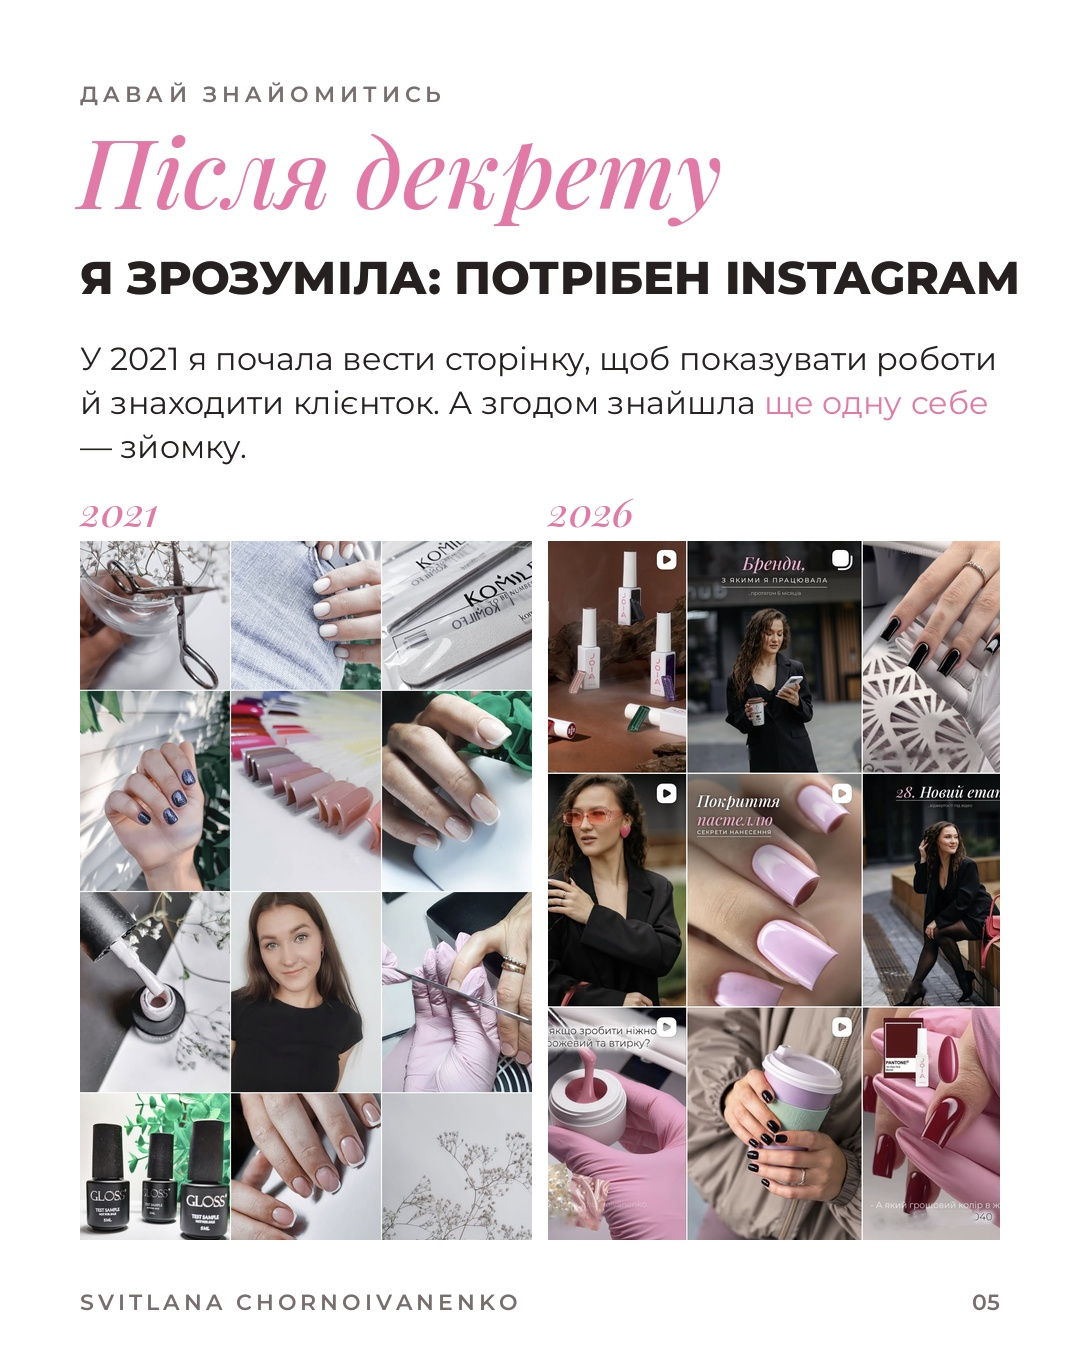
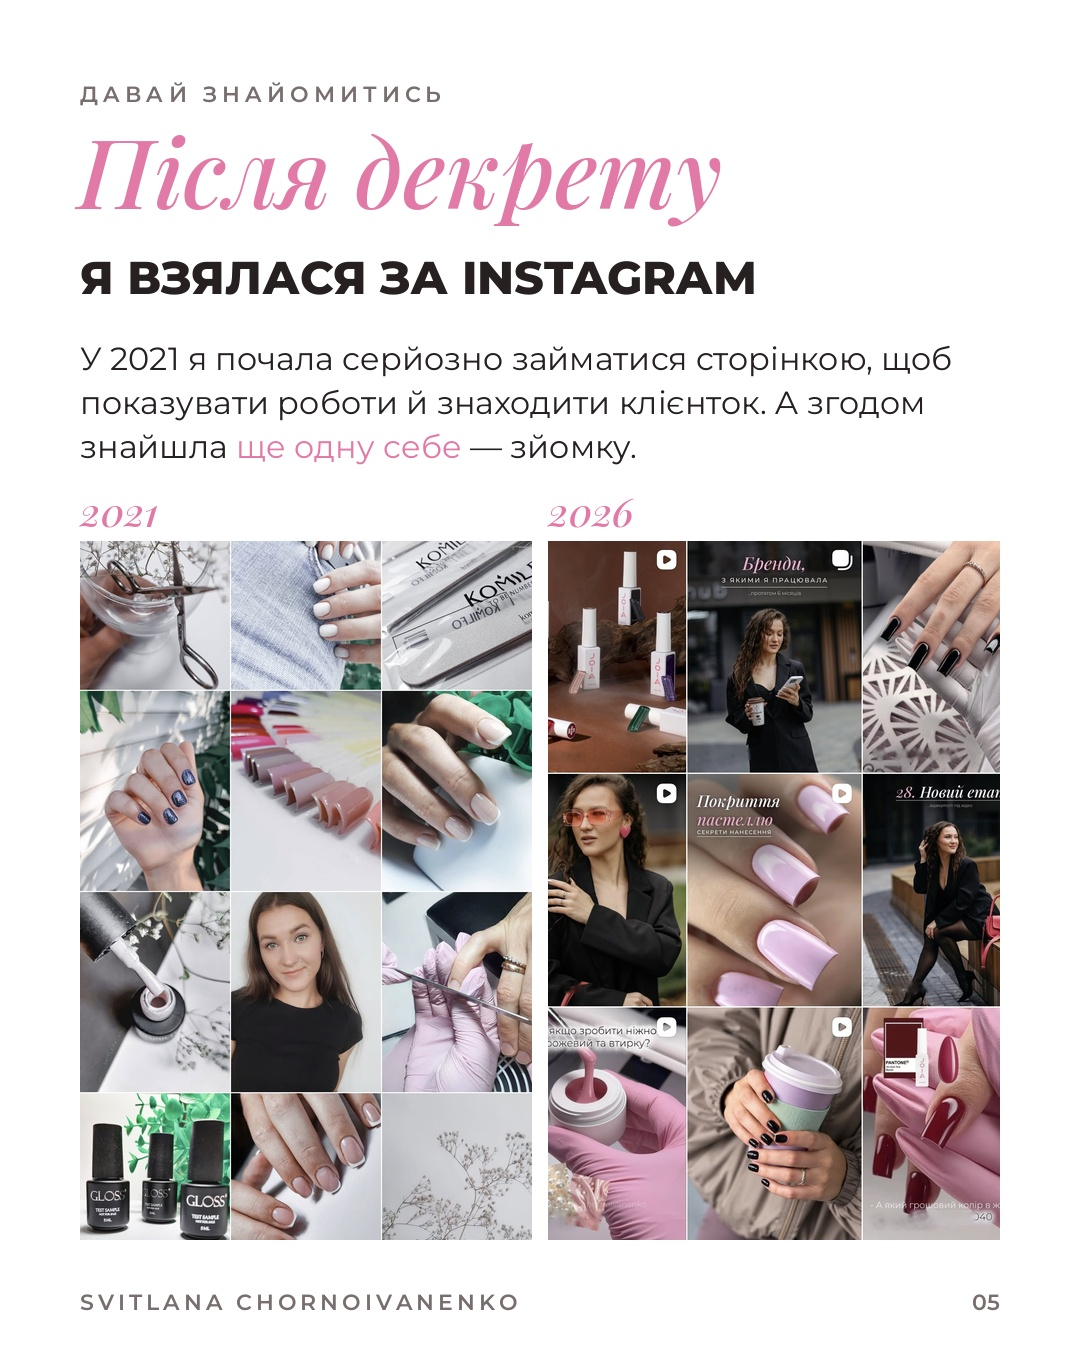
Intro slide 5: correct Instagram timeline wording
Claude-Session: https://claude.ai/code/session_0191xVL2hi5vHUvM1ix6pauC

Changed region(s): [[0.0917, 0.2489, 0.9167, 0.3422], [0.1222, 0.1867, 0.9472, 0.2178]]

diff --git a/karusel_znaiomstvo/build.py b/karusel_znaiomstvo/build.py
@@ -84,8 +84,8 @@ d = ImageDraw.Draw(c); foot(d, 4); c.save(f'{OUT}/04.jpg', quality=95)
 
 # ---------- 5 instagram ----------
 c = Image.new('RGB', (W, H), BG); d = ImageDraw.Draw(c)
-y = hdr(d, 'Після декрету', 'Я ЗРОЗУМІЛА: ПОТРІБЕН INSTAGRAM')
-y = para(d, 80, y, 'У 2021 я почала вести сторінку, щоб показувати роботи й знаходити клієнток. А згодом знайшла *ще одну себе* — зйомку.', M(32, 400), 920)
+y = hdr(d, 'Після декрету', 'Я ВЗЯЛАСЯ ЗА INSTAGRAM')
+y = para(d, 80, y, 'У 2021 я почала серйозно займатися сторінкою, щоб показувати роботи й знаходити клієнток. А згодом знайшла *ще одну себе* — зйомку.', M(32, 400), 920)
 top = y + 70; h = H - 110 - top; w = (920 - 16) // 2
 tile(c, Image.open(f'{U}/dd783c7c-image.jpg').convert('RGB'), 80, top, w, h, 0.5, 0.5)
 tile(c, Image.open(f'{OUT}/grid26_clean.jpg').convert('RGB'), 80 + w + 16, top, w, h, 0.5, 0.0)
